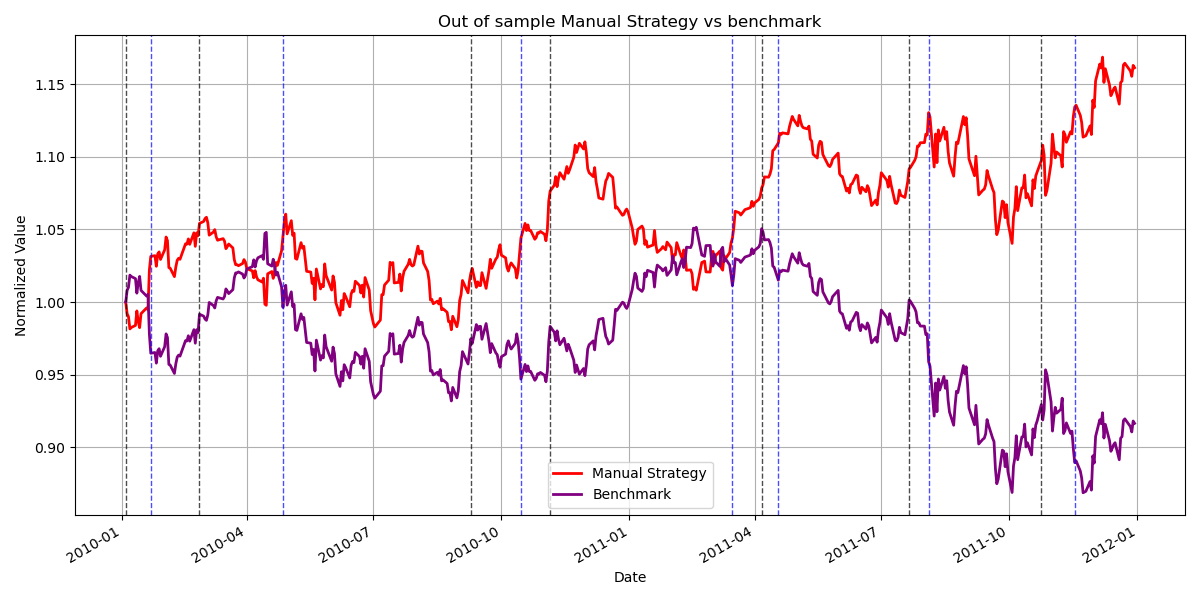
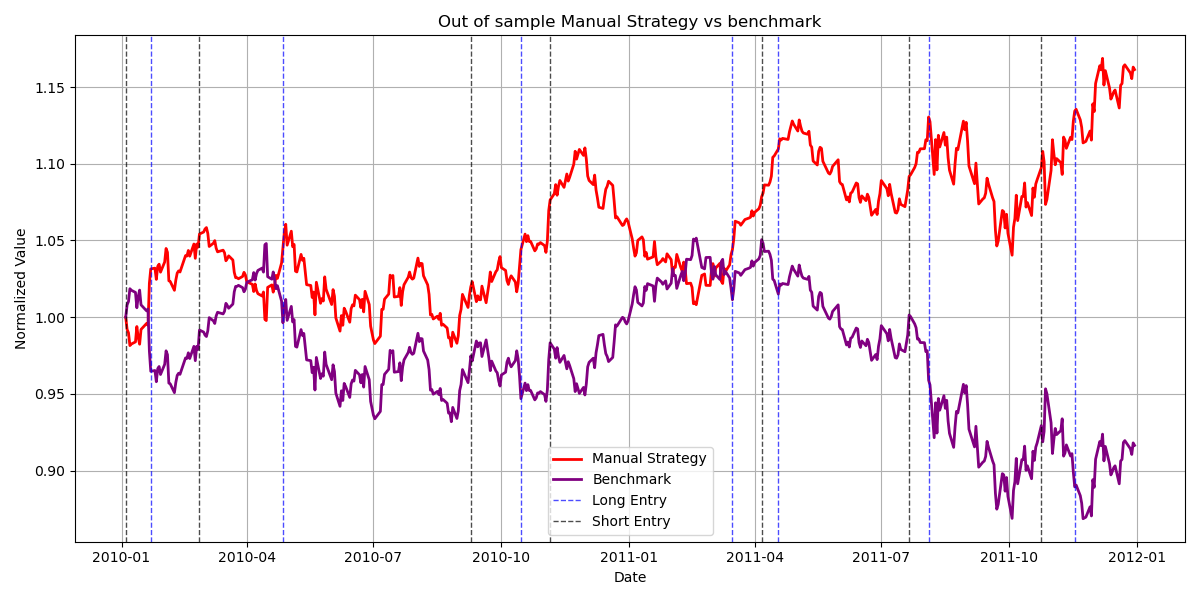
final project completed

diff --git a/strategy_evaluation/experiment1.py b/strategy_evaluation/experiment1.py
@@ -1,151 +1,98 @@
 import datetime as dt
+import os
+
+import matplotlib
 import matplotlib.pyplot as plt
 import pandas as pd
 
-import ManualStrategy as ms
+import ManualStrategy as ms_strategy
 import StrategyLearner as sl
 import marketsimcode as msc
+import indicators as ind
 
 
 def author():
-    return "aperez374"  # replace with your GT Canvas ID
+    return "aperez374"
 
 
 def study_group():
-    return "aperez374"  # if you are in a study group
+    return "aperez374"
 
 
-def run_benchmark(symbol, sd, ed, sv=100000, commission=9.95, impact=0.005):
-    """Create trades for benchmark: buy 1000 shares on first day and hold."""
-    dates = pd.date_range(sd, ed)
-    trades = pd.DataFrame(index=dates, columns=[symbol])
-    trades.values[:, :] = 0.0
-    first_day = trades.index[0]
-    trades.loc[first_day, symbol] = 1000.0
-    portvals = msc.compute_portvals(
-        trades, symbol, start_val=sv, commission=commission, impact=impact
-    )
-    return portvals
+def _benchmark_portvals(symbol, sd, ed, sv, commission, impact):
+    idx = ind.bollinger_bands_indicator(symbol, sd, ed).index
+    trades = pd.Series(0.0, index=idx)
+    trades.iloc[0] = 1000.0
+    return msc.compute_portvals(trades.to_frame(symbol), symbol, sv, commission, impact)
 
 
-def normalize(series):
+def _normalize(portvals):
+    series = portvals.squeeze()
     return series / series.iloc[0]
 
 
-def summarize(name, portvals):
-    portvals = portvals.squeeze()
-    daily_rets = portvals.pct_change().dropna()
-    cr = portvals.iloc[-1] / portvals.iloc[0] - 1
-    adr = daily_rets.mean()
-    sddr = daily_rets.std()
-
-    print(f"{name} results:")
-    print(f"  Cumulative return: {cr:.4f}")
-    print(f"  Mean daily return: {adr:.6f}")
-    print(f"  Std of daily return: {sddr:.6f}")
-    print()
-
-
-def main():
-    symbol = "JPM"
-    sv = 100000
-
-    # in sample and out of sample dates
-    sd_in = dt.datetime(2008, 1, 1)
-    ed_in = dt.datetime(2009, 12, 31)
-
-    sd_out = dt.datetime(2010, 1, 1)
-    ed_out = dt.datetime(2011, 12, 31)
-
-    # ManualStrategy instance
-    manual = ms.ManualStrategy(verbose=False)
-
-    # StrategyLearner instance
-    learner = sl.StrategyLearner(verbose=False, impact=0.005, commission=0.0)
-
-    # train learner in sample
-    learner.add_evidence(symbol=symbol, sd=sd_in, ed=ed_in, sv=sv)
-
-    # experiment settings
-    commission = 9.95
-    impact = 0.005
-
-    # IN SAMPLE RUNS
-    trades_manual_in = manual.testPolicy(symbol=symbol, sd=sd_in, ed=ed_in, sv=sv)
-    portvals_manual_in = msc.compute_portvals(
-        trades_manual_in, symbol, start_val=sv, commission=commission, impact=impact
-    )
-
-    trades_learner_in = learner.testPolicy(symbol=symbol, sd=sd_in, ed=ed_in, sv=sv)
-    portvals_learner_in = msc.compute_portvals(
-        trades_learner_in, symbol, start_val=sv, commission=commission, impact=impact
-    )
-
-    portvals_bench_in = run_benchmark(
-        symbol, sd_in, ed_in, sv=sv, commission=commission, impact=impact
-    )
-
-    # summarize in sample
-    summarize("In sample Benchmark", portvals_bench_in)
-    summarize("In sample ManualStrategy", portvals_manual_in)
-    summarize("In sample StrategyLearner", portvals_learner_in)
-
-    # plot in sample
-    plt.figure(figsize=(10, 6))
-    norm_bench_in = normalize(portvals_bench_in)
-    norm_manual_in = normalize(portvals_manual_in)
-    norm_learner_in = normalize(portvals_learner_in)
-
-    plt.plot(norm_bench_in.index, norm_bench_in.values, color="purple", label="Benchmark")
-    plt.plot(norm_manual_in.index, norm_manual_in.values, color="red", label="ManualStrategy")
-    plt.plot(norm_learner_in.index, norm_learner_in.values, color="blue", label="StrategyLearner")
-
-    plt.title("In sample JPM portfolio values")
-    plt.xlabel("Date")
-    plt.ylabel("Normalized value")
-    plt.legend()
-    plt.grid(True)
-    plt.savefig("./images/experiment1_in_sample.png", dpi=150)
-
-    # OUT OF SAMPLE RUNS
-    trades_manual_out = manual.testPolicy(symbol=symbol, sd=sd_out, ed=ed_out, sv=sv)
-    portvals_manual_out = msc.compute_portvals(
-        trades_manual_out, symbol, start_val=sv, commission=commission, impact=impact
-    )
-
-    trades_learner_out = learner.testPolicy(symbol=symbol, sd=sd_out, ed=ed_out, sv=sv)
-    portvals_learner_out = msc.compute_portvals(
-        trades_learner_out, symbol, start_val=sv, commission=commission, impact=impact
-    )
-
-    portvals_bench_out = run_benchmark(
-        symbol, sd_out, ed_out, sv=sv, commission=commission, impact=impact
-    )
-
-    # summarize out of sample
-    summarize("Out of sample Benchmark", portvals_bench_out)
-    summarize("Out of sample ManualStrategy", portvals_manual_out)
-    summarize("Out of sample StrategyLearner", portvals_learner_out)
-
-    # plot out of sample
-    plt.figure(figsize=(10, 6))
-    norm_bench_out = normalize(portvals_bench_out)
-    norm_manual_out = normalize(portvals_manual_out)
-    norm_learner_out = normalize(portvals_learner_out)
-
-    plt.plot(norm_bench_out.index, norm_bench_out.values, color="purple", label="Benchmark")
-    plt.plot(norm_manual_out.index, norm_manual_out.values, color="red", label="ManualStrategy")
-    plt.plot(norm_learner_out.index, norm_learner_out.values, color="blue", label="StrategyLearner")
-
-    plt.title("Out of sample JPM portfolio values")
-    plt.xlabel("Date")
-    plt.ylabel("Normalized value")
-    plt.legend()
-    plt.grid(True)
-    plt.savefig("./images/experiment1_out_of_sample.png", dpi=150)
+def _plot(manual_norm, learner_norm, bench_norm, label, symbol):
+    fig, ax = plt.subplots(figsize=(12, 6))
+    ax.plot(manual_norm.index, manual_norm.values, label="Manual Strategy", color="red")
+    ax.plot(learner_norm.index, learner_norm.values, label="Strategy Learner", color="green")
+    ax.plot(bench_norm.index, bench_norm.values, label="Benchmark", color="purple")
+    ax.set_title(f"Experiment 1: {label} ({symbol})")
+    ax.set_xlabel("Date")
+    ax.set_ylabel("Normalized Portfolio Value")
+    ax.legend(loc="best")
+    ax.grid(True)
+    fig.tight_layout()
+    fname = f"images/experiment1_{label.lower().replace(' ', '_')}.png"
+    fig.savefig(fname)
+    plt.close(fig)
 
 
+def run_experiment1(symbol="JPM", sv=100000, impact=0.005, commission=9.95):
+    os.makedirs("images", exist_ok=True)
+
+    in_sd, in_ed = dt.datetime(2008, 1, 1), dt.datetime(2009, 12, 31)
+    out_sd, out_ed = dt.datetime(2010, 1, 1), dt.datetime(2011, 12, 31)
+
+    manual_in = ms_strategy.ManualStrategy(impact=impact, commission=commission)
+    manual_in.testPolicy(symbol=symbol, sd=in_sd, ed=in_ed, sv=sv)
+    manual_in_portvals, _ = manual_in.get_port_val()
+
+    manual_out = ms_strategy.ManualStrategy(impact=impact, commission=commission)
+    manual_out.testPolicy(symbol=symbol, sd=out_sd, ed=out_ed, sv=sv)
+    manual_out_portvals, _ = manual_out.get_port_val()
+
+    learner = sl.StrategyLearner(verbose=False, impact=impact, commission=commission)
+    learner.add_evidence(symbol=symbol, sd=in_sd, ed=in_ed, sv=sv)
+
+    learner.testPolicy(symbol=symbol, sd=in_sd, ed=in_ed, sv=sv)
+    learner_in_portvals, _ = learner.get_port_val()
+
+    learner.testPolicy(symbol=symbol, sd=out_sd, ed=out_ed, sv=sv)
+    learner_out_portvals, _ = learner.get_port_val()
+
+    bench_in = _benchmark_portvals(symbol, in_sd, in_ed, sv, commission, impact)
+    bench_out = _benchmark_portvals(symbol, out_sd, out_ed, sv, commission, impact)
+
+    _plot(_normalize(manual_in_portvals), _normalize(learner_in_portvals),
+          _normalize(bench_in), "In Sample", symbol)
+    _plot(_normalize(manual_out_portvals), _normalize(learner_out_portvals),
+          _normalize(bench_out), "Out of Sample", symbol)
+
+    rows = {}
+    for label, pv in [("Manual In", manual_in_portvals), ("Learner In", learner_in_portvals),
+                       ("Benchmark In", bench_in), ("Manual Out", manual_out_portvals),
+                       ("Learner Out", learner_out_portvals), ("Benchmark Out", bench_out)]:
+        cr, adr, sddr, sr = msc.calculate_statistic_metrics(pv)
+        rows[label] = {"cum_return": cr, "mean_daily_return": adr, "stdev_daily_return": sddr}
+
+    summary = pd.DataFrame(rows).T.round(6)
+    summary.to_csv("p8_experiment1_summary.csv")
+    return summary
+
+
+def main(symbol="JPM", sv=100000, impact=0.005, commission=9.95):
+    return run_experiment1(symbol=symbol, sv=sv, impact=impact, commission=commission)
 
 
 if __name__ == "__main__":
-    main()
+    print(main())

diff --git a/strategy_evaluation/experiment2.py b/strategy_evaluation/experiment2.py
@@ -1,7 +1,91 @@
+import datetime as dt
+import os
+
+import matplotlib
+import matplotlib.pyplot as plt
+import pandas as pd
+
+import StrategyLearner as sl
+import marketsimcode as msc
+import indicators as ind
 
 
-def main():
-    pass
+def author():
+    return "aperez374"
+
+
+def study_group():
+    return "aperez374"
+
+
+def _benchmark_cr(symbol, sd, ed, sv, commission, impact):
+    idx = ind.bollinger_bands_indicator(symbol, sd, ed).index
+    trades = pd.Series(0.0, index=idx)
+    trades.iloc[0] = 1000.0
+    portvals = msc.compute_portvals(trades.to_frame(symbol), symbol, sv, commission, impact)
+    cr, adr, sddr, sr = msc.calculate_statistic_metrics(portvals)
+    return cr
+
+
+def run_experiment2(symbol="JPM", sv=100000, commission=0.0,
+                    impact_values=(0.0, 0.005, 0.01, 0.025, 0.05)):
+    os.makedirs("images", exist_ok=True)
+
+    sd, ed = dt.datetime(2008, 1, 1), dt.datetime(2009, 12, 31)
+
+    rows = []
+    for impact in impact_values:
+        learner = sl.StrategyLearner(verbose=False, impact=impact, commission=commission)
+        learner.add_evidence(symbol=symbol, sd=sd, ed=ed, sv=sv)
+        trades = learner.testPolicy(symbol=symbol, sd=sd, ed=ed, sv=sv)
+        portvals, _ = learner.get_port_val()
+
+        cr, adr, sddr, sr = msc.calculate_statistic_metrics(portvals)
+        n_trades = int((trades[symbol] != 0).sum())
+
+        rows.append({
+            "impact": impact,
+            "cumulative_return": cr,
+            "num_trades": n_trades,
+        })
+
+    results = pd.DataFrame(rows)
+    results.to_csv("p8_experiment2_results.csv", index=False)
+
+    bench_cr = _benchmark_cr(symbol, sd, ed, sv, commission, impact_values[0])
+
+    fig1, ax1 = plt.subplots(figsize=(10, 6))
+    ax1.plot(results["impact"], results["cumulative_return"], marker="o", color="darkorange",
+             label="Strategy Learner")
+    ax1.set_xlabel("Impact")
+    ax1.set_ylabel("Cumulative Return")
+    ax1.set_title(f"Experiment 2: Impact vs Cumulative Return ({symbol}, In-Sample)")
+    ax1.legend(loc="best")
+    ax1.grid(True)
+    fig1.tight_layout()
+    fig1.savefig("images/experiment2_cumulative_return.png")
+    plt.close(fig1)
+
+    fig2, ax2 = plt.subplots(figsize=(10, 6))
+    ax2.plot(results["impact"], results["num_trades"], marker="o", color="teal",
+             label="Strategy Learner")
+    ax2.set_xlabel("Impact")
+    ax2.set_ylabel("Number of Trades")
+    ax2.set_title(f"Experiment 2: Impact vs Number of Trades ({symbol}, In-Sample)")
+    ax2.legend(loc="best")
+    ax2.grid(True)
+    fig2.tight_layout()
+    fig2.savefig("images/experiment2_num_trades.png")
+    plt.close(fig2)
+
+    return results
+
+
+def main(symbol="JPM", sv=100000, commission=0.0,
+         impact_values=(0.0, 0.005, 0.01, 0.025, 0.05)):
+    return run_experiment2(symbol=symbol, sv=sv, commission=commission,
+                           impact_values=impact_values)
+
 
 if __name__ == "__main__":
-    main()
+    print(main())

diff --git a/strategy_evaluation/testproject.py b/strategy_evaluation/testproject.py
@@ -36,17 +36,19 @@ def plot_strategy_chart(portvals, benchmark, trades, title):
     ax.plot(portvals_norm.index, portvals_norm.values, label="Manual Strategy", color="red", linewidth=2)
     ax.plot(benchmark_norm.index, benchmark_norm.values, label="Benchmark", color="purple", linewidth=2)
 
-    for d in long_dates:
-        ax.axvline(d, color="blue", linestyle="--", alpha=0.7, linewidth=1)
-    for d in short_dates:
-        ax.axvline(d, color="black", linestyle="--", alpha=0.7, linewidth=1)
+    for i, d in enumerate(long_dates):
+        ax.axvline(d, color="blue", linestyle="--", alpha=0.7, linewidth=1,
+                label="Long Entry" if i == 0 else None)
+
+    for i, d in enumerate(short_dates):
+        ax.axvline(d, color="black", linestyle="--", alpha=0.7, linewidth=1,
+                label="Short Entry" if i == 0 else None)
 
     ax.set_title(title)
     ax.set_xlabel("Date")
     ax.set_ylabel("Normalized Value")
     ax.legend(loc="best")
     ax.grid(True)
-    fig.autofmt_xdate()
     fig.tight_layout()
 
     os.makedirs("./images", exist_ok=True)
@@ -77,7 +79,7 @@ def manual_strategy():
     output_os = f"Manual Strategy - Out of Sample: \nCumulative Return: {cr_os:.6f}\nAverage Daily Return: {adr_os:.6f}\nStandard Deviation of Daily Returns: {sddr_os:.6f}\nSharpe Ratio: {sr_os:.6f}"
     benchmark_output_os = f"Benchmark - Out of Sample: \nCumulative Return: {sr_cr_os:.6f}\nAverage Daily Return: {sr_adr_os:.6f}\nStandard Deviation of Daily Returns: {sr_sddr_os:.6f}\nSharpe Ratio: {sr_sr_os:.6f}"
 
-    with open("p8_results.txt", "w") as f:
+    with open("p8_manual_results.txt", "w") as f:
         f.write(output + "\n"+ "\n")
         f.write(benchmark_output + "\n"+ "\n")
         f.write(output_os+"\n"+ "\n")
